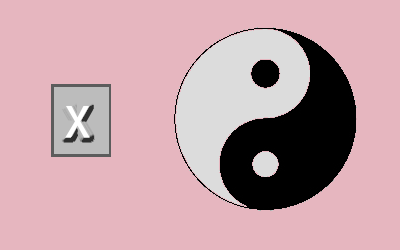
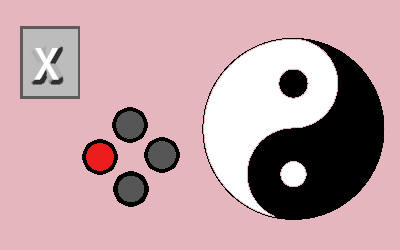
画像をパッドに対応したものに変更

diff --git a/Tutorial.cpp b/Tutorial.cpp
@@ -29,7 +29,7 @@ void Tutorial::Initialize(Audio* audio, uint32_t* soundDataHandle, uint32_t* voi
 
 void Tutorial::Update(PadInput* padInput)
 {
-	state->Update(input,padInput);
+	state->Update(input, padInput);
 
 	if (input->PushKey(DIK_C) || padInput->TriggerKey(XINPUT_GAMEPAD_B))
 		skipTimer++;
@@ -50,8 +50,8 @@ void Tutorial::Draw()
 
 	count += 0.1f;
 	////チュートリアル中の表示
-	sprite[0]->SetSize({ 80,80 });
-	sprite[0]->SetPosition({ 1020 , 380 - sinf(count) * 3.0f });
+	sprite[0]->SetSize({ 150, 75});
+	sprite[0]->SetPosition({ 970 , 380 - sinf(count) * 3.0f });
 
 	//sprite[1]->SetSize({ 192.0f * ((float)skipTimer / (float)skipMaxTime),15 });
 	//sprite[1]->SetPosition({ 30, (float)30 + sinf(count) * 3.0f });
@@ -214,8 +214,8 @@ BlackTutorial::BlackTutorial()
 
 void BlackTutorial::Update(Input* input, PadInput* padInput)
 {
-	if (input->TriggerKey(DIK_C) || padInput->TriggerKey(XINPUT_GAMEPAD_B)){
-  AddNum();
+	if (input->TriggerKey(DIK_C) || padInput->TriggerKey(XINPUT_GAMEPAD_B)) {
+		AddNum();
 		//音
 		tutorial->audio->StopWave(tutorial->voiceHandle[8]);
 		tutorial->voiceHandle[8] = tutorial->audio->PlayWave(tutorial->soundDataHandle[8]);
